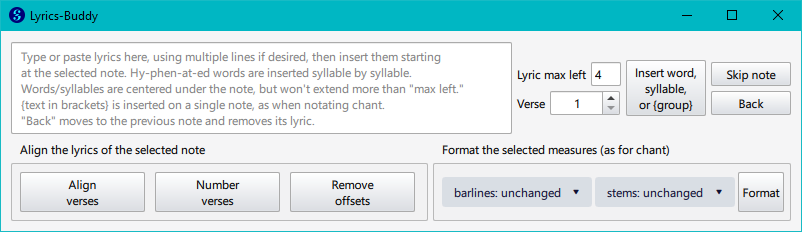
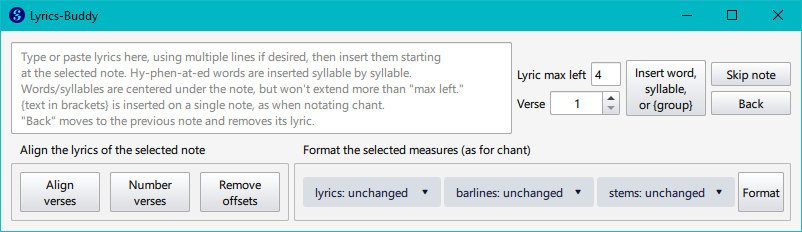
V1.4: added format option to assign lyrics to a different voice

diff --git a/lyrics-buddy/lyrics-buddy.qml b/lyrics-buddy/lyrics-buddy.qml
@@ -26,7 +26,7 @@ import Muse.UiComponents
 import FileIO
 
 MuseScore {
-    version: "1.3.0"
+    version: "1.4.0"
     title: "Lyrics-Buddy"
     description: "Tools to insert and format lyrics"
     // categoryCode: "composing-arranging-tools"
@@ -68,6 +68,11 @@ MuseScore {
     function write_file()
     {
         logFile.write(m_logString);
+    }
+
+    function log_file_path()
+    {
+        return logFile.source;
     }
 
     function up_nest(a_caption)
@@ -145,6 +150,7 @@ MuseScore {
             return;
         }
 
+        var lyric_voice = lyricVoice.model[lyricVoice.currentIndex].type;
         var barline_type = barlineType.model[barlineType.currentIndex].type;
         var stem_type = stemType.model[stemType.currentIndex].type;
         time_stamp("Formatting barlines:" + barline_type +" stems:" + stem_type)
@@ -165,6 +171,9 @@ MuseScore {
         cursor.filter = -1; // SegmentType.ALL
         log("Selection from tick " + cursor.tick + " to " + endTick + "\n");
 
+        var moved_lyric = 0;
+        var failed_move = 0;
+
         while (cursor.tick < endTick) {
             for (var track = 4*curScore.selection.startStaff;
                  track < 4*curScore.selection.endStaff;
@@ -172,8 +181,14 @@ MuseScore {
             {
                 cursor.track = track;
                 var element = cursor.element;
-                if (element && (element.type === Element.BAR_LINE)) {
-                    log("Track " + track + ". Bar line at " + cursor.tick + "\n");
+                if (element == null)
+                    continue;
+
+                if ((element.type === Element.BAR_LINE) &&
+                    (barline_type != "unchanged")) {
+                    log("Measure " + (cursor.measure.no + 1) +
+                        ", Track " + track +
+                        ". Bar line at " + cursor.tick + "\n");
                     showGoodStuff("barlineType", element.barlineType, "  ");
                     showGoodStuff("barlineSpan", element.barlineSpan, "  ");
                     showGoodStuff("barlineSpanFrom", element.barlineSpanFrom, "  ");
@@ -209,23 +224,58 @@ MuseScore {
                             break;
                     }
                 }
-                else if (element && (element.type === Element.CHORD)) {
-                    log("Track " + track + ". Chord at " + cursor.tick + "\n");
-                    //dumpObject( element, true );
-                    log("  stem "   + (element.stem != null) + "\n");
-                    log("  noStem " + (element.noStem != null) + "\n");
-                    switch (stem_type) {
-                        case "none":
-                            element.noStem = true;
-                            log("  Removed stem\n");
-                            break;
-                        case "standard":
-                            element.noStem = false;
-                            log("  Added stem\n");
-                            break;
-                        default:
-                            // do nothing;
-                            break;
+                else if (element.type === Element.CHORD) {
+                    if (stem_type != "unchanged") {
+                        log("Measure " + (cursor.measure.no + 1) +
+                            ", Track " + track +
+                            ". Chord at " + cursor.tick + "\n");
+                        //log("  stem "   + (element.stem != null) + "\n");
+                        //log("  noStem " + (element.noStem != null) + "\n");
+                        switch (stem_type) {
+                            case "none":
+                                element.noStem = true;
+                                log("  Removed stem\n");
+                                break;
+                            case "standard":
+                                element.noStem = false;
+                                log("  Added stem\n");
+                                break;
+                            default:
+                                // do nothing;
+                                break;
+                        }
+                    }
+
+                    if (lyric_voice != "unchanged") {
+                        log("Measure " + (cursor.measure.no + 1) +
+                            ", Track " + track +
+                            ". Chord at " + cursor.tick + "\n");
+                        var voice = track % 4;
+                        var desired_voice = parseInt(lyric_voice);
+                        if (voice != desired_voice) {
+                            for (var vx = element.lyrics.length - 1; vx >= 0; vx--) {
+                                // Remove the lyric from this voice and put
+                                // a copy in the desired voice
+                                var to_track = 4*(track/4) + desired_voice;
+                                var el = cursor.segment.elementAt(to_track);
+                                if (el && (el.type === Element.CHORD)) {
+                                    var lyric_copy = element.lyrics[vx].clone();
+                                    log('Moving lyric "' + lyric_copy.text +
+                                        '" from voice ' + (voice+1) +
+                                        ' to voice ' + (desired_voice+1) + '\n');
+                                    element.remove(element.lyrics[vx]);
+                                    lyric_copy.voice = desired_voice;
+                                    el.add(lyric_copy);
+                                    moved_lyric += 1;
+                                }
+                                else {
+                                    log('ERROR: voice ' + (desired_voice+1) +
+                                        ' has no note to accept lyric "' +
+                                        element.lyrics[vx].text + '"\n');
+                                    failed_move += 1;
+                                }
+                            }
+                        }
                     }
                 }
             }
@@ -237,7 +287,15 @@ MuseScore {
         }
 
         curScore.endCmd();
+        var str = "Moved " + moved_lyric + " lyrics to another voice\n" +
+                  "Failed to move " + failed_move + " lyrics.\n";
+        log(str);
         write_file();
+
+        if (moved_lyric + failed_move > 0) {
+            str += "See " + log_file_path() + " for details";
+           message("Warning", str);
+        }
     }
 
     //============================================================================
@@ -874,7 +932,7 @@ Words/syllables are centered under the note, but won\'t extend more than "max le
             GroupBox {
                 title: "Align the lyrics of the selected note"
                 Layout.columnSpan: 2
-                Layout.fillWidth: true
+                Layout.fillWidth: false
 
                 RowLayout {
                     spacing: 10
@@ -884,7 +942,7 @@ Words/syllables are centered under the note, but won\'t extend more than "max le
                     Button {
                         id: alignButton
                         //Layout.fillWidth: true
-                        Layout.preferredWidth: 125
+                        Layout.preferredWidth: 80
                         text: qsTranslate("PrefsDialogBase", "Align\nverses")
                         onClicked: {
                             try_it(align_verses, "align")
@@ -894,7 +952,7 @@ Words/syllables are centered under the note, but won\'t extend more than "max le
                     Button {
                         id: numberAndAlignButton
                         //Layout.fillWidth: true
-                        Layout.preferredWidth: 125
+                        Layout.preferredWidth: 80
                         text: qsTranslate("PrefsDialogBase", "Number\nverses")
                         onClicked: {
                             try_it(align_verses, "number")
@@ -904,7 +962,7 @@ Words/syllables are centered under the note, but won\'t extend more than "max le
                     Button {
                         id: removeAlignmentButton
                         //Layout.fillWidth: true
-                        Layout.preferredWidth: 125
+                        Layout.preferredWidth: 80
                         text: qsTranslate("PrefsDialogBase", "Remove\noffsets")
                         onClicked: {
                             try_it(align_verses, "remove")
@@ -926,6 +984,22 @@ Words/syllables are centered under the note, but won\'t extend more than "max le
                     Layout.fillHeight: false
 
                     StyledDropdown {
+                        id: lyricVoice;
+                        Layout.preferredWidth: 138
+                        model: [
+                            { 'text': "lyrics: unchanged", 'type': "unchanged" },
+                            { 'text': "lyrics: on voice1", 'type': "0" },
+                            { 'text': "lyrics: on voice2", 'type': "1" },
+                            { 'text': "lyrics: on voice3", 'type': "2" },
+                            { 'text': "lyrics: on voice4", 'type': "3" }
+                        ]
+                        currentIndex: 0
+                        onActivated: function(index, value) {
+                            currentIndex = index
+                        }
+                    }
+
+                    StyledDropdown {
                         id: barlineType;
                         Layout.preferredWidth: 150
                         model: [
@@ -942,7 +1016,7 @@ Words/syllables are centered under the note, but won\'t extend more than "max le
 
                     StyledDropdown {
                         id: stemType;
-                        Layout.preferredWidth: 140
+                        Layout.preferredWidth: 138
                         model: [
                             { 'text': "stems: unchanged", 'type': "unchanged" },
                             { 'text': "stems: standard",  'type': "standard" },

diff --git a/lyrics-buddy/README.md b/lyrics-buddy/README.md
@@ -4,12 +4,12 @@ This is a [MuseScore](https://handbook.musescore.org/) [plugin](https://musescor
 
 MuseScore's built-in lyrics entry is quite usable, letting you type or paste lyrics one word or syllable at a time. If the clipboard contains hyphenated words, MuseScore will automatically insert the hyphen as you insert each syllable.
 
-Lyrics-buddy adds a few conveniences to entry and formatting of lyrics:
+But Lyrics-buddy adds a few conveniences to entry and formatting of lyrics:
 
 - Allows you to see the lyrics waiting to be inserted (rather than the invisible clipboard)
-- Allows you to modify the lyrics waiting to be pasted after you mess up inertion
+- Allows you to modify the remaining lyrics after you mess up insertion
 - MuseScore defaults to centering each word or syllable under its note. This is usually fine, but it can sometimes cause the text to appear too far to the left of the note. Lyrics-buddy lets you specify a "left max" value to limit how far to the left of a note its lyrics may extend.
-- When notating chant, it is common to have multiple words on the same note. You can do this in MuseScore by typing Ctrl-Space instead of Space between words, but this can make typing cumbersome. Lyrics-buddy will insert text wrapped in curly braces {} onto a single note.
+- When notating chant, it is common to have multiple words on the same note. You can do this in MuseScore by typing Ctrl-Space instead of Space between words, but this can make typing cumbersome. Lyrics-buddy will insert text wrapped in curly braces {} on a single note.
 - Lets you align and number the text of multiple verses
 
 ## Installation
@@ -23,7 +23,7 @@ Unpack the zip file. Move the `lyric-buddy` folder to MuseScore's plugins folder
 
 Click `Plugins`, `Manage plugins...` and `Enable` the plugin.
 
-To update to a new version, simply replace the `lyrics-buddy` folder with the new one. You may need to restart Musescore.
+To update to a new version, simply replace the `lyrics-buddy` folder with the new one and restart MuseScore.
 
 ## Operation
 ![Lyric-buddy UI](./plugin.png)
@@ -34,12 +34,12 @@ The Lyrics-buddy dialog has several sections:
 
 - **Type or paste Lyrics here...** is a multi-line text box into which you can type or paste lyrics. I like to use the "Hyphenator" at https://juiciobrennan.com/hyphenator/ to hyphenate a verse of lyrics, then copy the results to Lyrics-buddy. The Hyphenator isn't perfect but does a pretty good job.
 
-- **Insert word, syllable, or \{group\}**: Button that adds the next lyric item to the currently selected note. The selection is then moved to the next note, and the lyric item just inserted is removed from the source text box. If a lyric already exists for the specified verse of the selected note, an error is shown and no lyric is inserted.<br>
+- **Insert word, syllable, or \{group\}**: button that adds the next lyric item to the currently selected note. The selection is then moved to the next note, and the lyric item just inserted is removed from the source text box. If a lyric already exists for the specified verse of the selected note, an error is shown and no lyric is inserted.
 ![(Before insert)](./pre-insertion.png)  ![(After insert)](./post-insertion.png)
 
-- **Skip note**: Button that advances the selection to the next note without inserting a lyric item. Used to skip over tied notes and melissmas.
+- **Skip note**: button that advances the selection to the next note without inserting a lyric item. Used to skip over tied notes and melismas.
 
-- **Back**: Button that moves the selection back to the previous note, removes its lyric, and pre-pends the lyric to the source text box. Useful as an "undo" when you insert into what should be a tied note or melissma.
+- **Back**: button that moves the selection back to the previous note, removes its lyric, and pre-pends the lyric to the source text box. Useful as an "undo" when you insert into what should be a tied note or melisma.
 
 - **Lyric max left**: numeric edit field that specifies the maximum distance to the left of a note that a lyric will be allowed to extend. By default, MuseScore centers each lyric on its note. Lyrics-buddy uses **Lyric max left** to limit how far left each lyric is allowed to extend. The default value is 4, which is roughly 4 characters. If you don't like the feature, set it to 999.
 
@@ -51,22 +51,27 @@ If your score has multiple verses, this section can help with formatting them. A
 
 - **Align verse**: button that aligns the left edge of all verses on the selected note, taking into account "Lyric max left". This will most often be used on the first note of a line, following common publishing practice. Note that even if you have only a single verse this button may be used to apply "Lyric max left" to an existing lyric on a note.
 
-- **Number verses**: button that numbers the verses on the selected note and aligns the numbers. You will almost always do this on the first line of music. But for songs with more than four verses your singers will appreciate it if you add numbers to the first word in each line, to make it easier to find verse 5 of 9 across a line break.<br>
+- **Number verses**: button that numbers the verses on the selected note and aligns the numbers. You will almost always do this on the first line of music. But for songs with more than four verses your singers will appreciate it if you add numbers to the first word in each line, to make it easier to find verse 5 of 9 across a line break.
 ![(before numbering)](./no-numbers.png)    ![(after numbering)](./numbers.png)
 
 - **Remove offsets**: Lyrics-buddy does its alignments by adjusting the Lyric's offsetX property. Should these get messed up, perhaps by an earlier manual adjustment of the lyric in one verse, this button sets offsetX of all Lyrics attached to the selected note to 0.
 
-### Format the selected measures (as for chant)
-These controls don't affect lyrics. They are tucked in a corner here because I engrave a fair amount of non-metrical chant and they let me avoid needing to open an additional plug-in. (Chant is also why Lyrics-buddy has {} groups for lyrics text.)
+### Format the selected measures
 
-Unlike the other sections of the dialog that act on one note at a time, the controls here act on a selection, typically a range of measures or an entire score.
+Unlike the other sections of the dialog that act on one note at a time, the controls in this section act on a selection, typically a range of measures or an entire score. **barlines** and **stems** are here because I engrave a fair amount of non-metrical chant and they let me avoid an additional plug-in. (Chant is also why Lyrics-buddy has {} groups for lyrics text.)
 
-- **barlines:...** drop-list that specifies whether barlines should be affected by Format, and if so what type of barline is to be used: normal, tick1, or tick2.
+Even if you don't engrave chant, you may find **lyrics** useful if you find some lyrics have gotten assigned to the wrong voice.
 
-- **stems:...** drop-list that specifies whether note stems should be affected by Format, and if so what type of stem is to be used: normal or none.
+- **lyrics:...** drop-list that specifies whether lyrics should be affected by Format, and if so which voice lyrics should be assigned to: 1, 2, 3, or 4. If you have a multi-note chord with several verses of lyrics attached, and then reassign a note of the chord to a different voice, MuseScore will reassign some of the lyrics to the reassigned voice. I can't think of a case where this would be useful, and it causes problems in my scores, so I added this function to reassign the lyrics to the desired voice, usually voice 1. 
 
-- **Format**: button to apply the specified barline and note stem selections to the selected measures.
+- **barlines:...** drop-list that specifies whether barlines should be affected by Format, and if so what type of barline should be used: normal, tick1, or tick2.
+
+- **stems:...** drop-list that specifies whether note stems should be affected by Format, and if so what type of stem should be used: normal or none.
+
+- **Format**: button to apply the specified lyric, barline, and stem selections to the selected measures.
 
 ## Notes and Limitations
 
-Lyrics-buddy was written to simplify my workflow when using my score styles. I do not guarantee that it will work with your workflow or MuseScore settings.
+Lyrics-buddy was written to simplify my workflow when using my score styles. I do not guarantee that it will be useful for your workflow or MuseScore settings.
+
+This version of Lyrics-buddy has been tested with MuseScore 4.7.4 on Windows. Many of the operations performed by Lyrics-buddy were derived experimentally. I cannot guarantee that future changes to MuseScore will not break my code.
